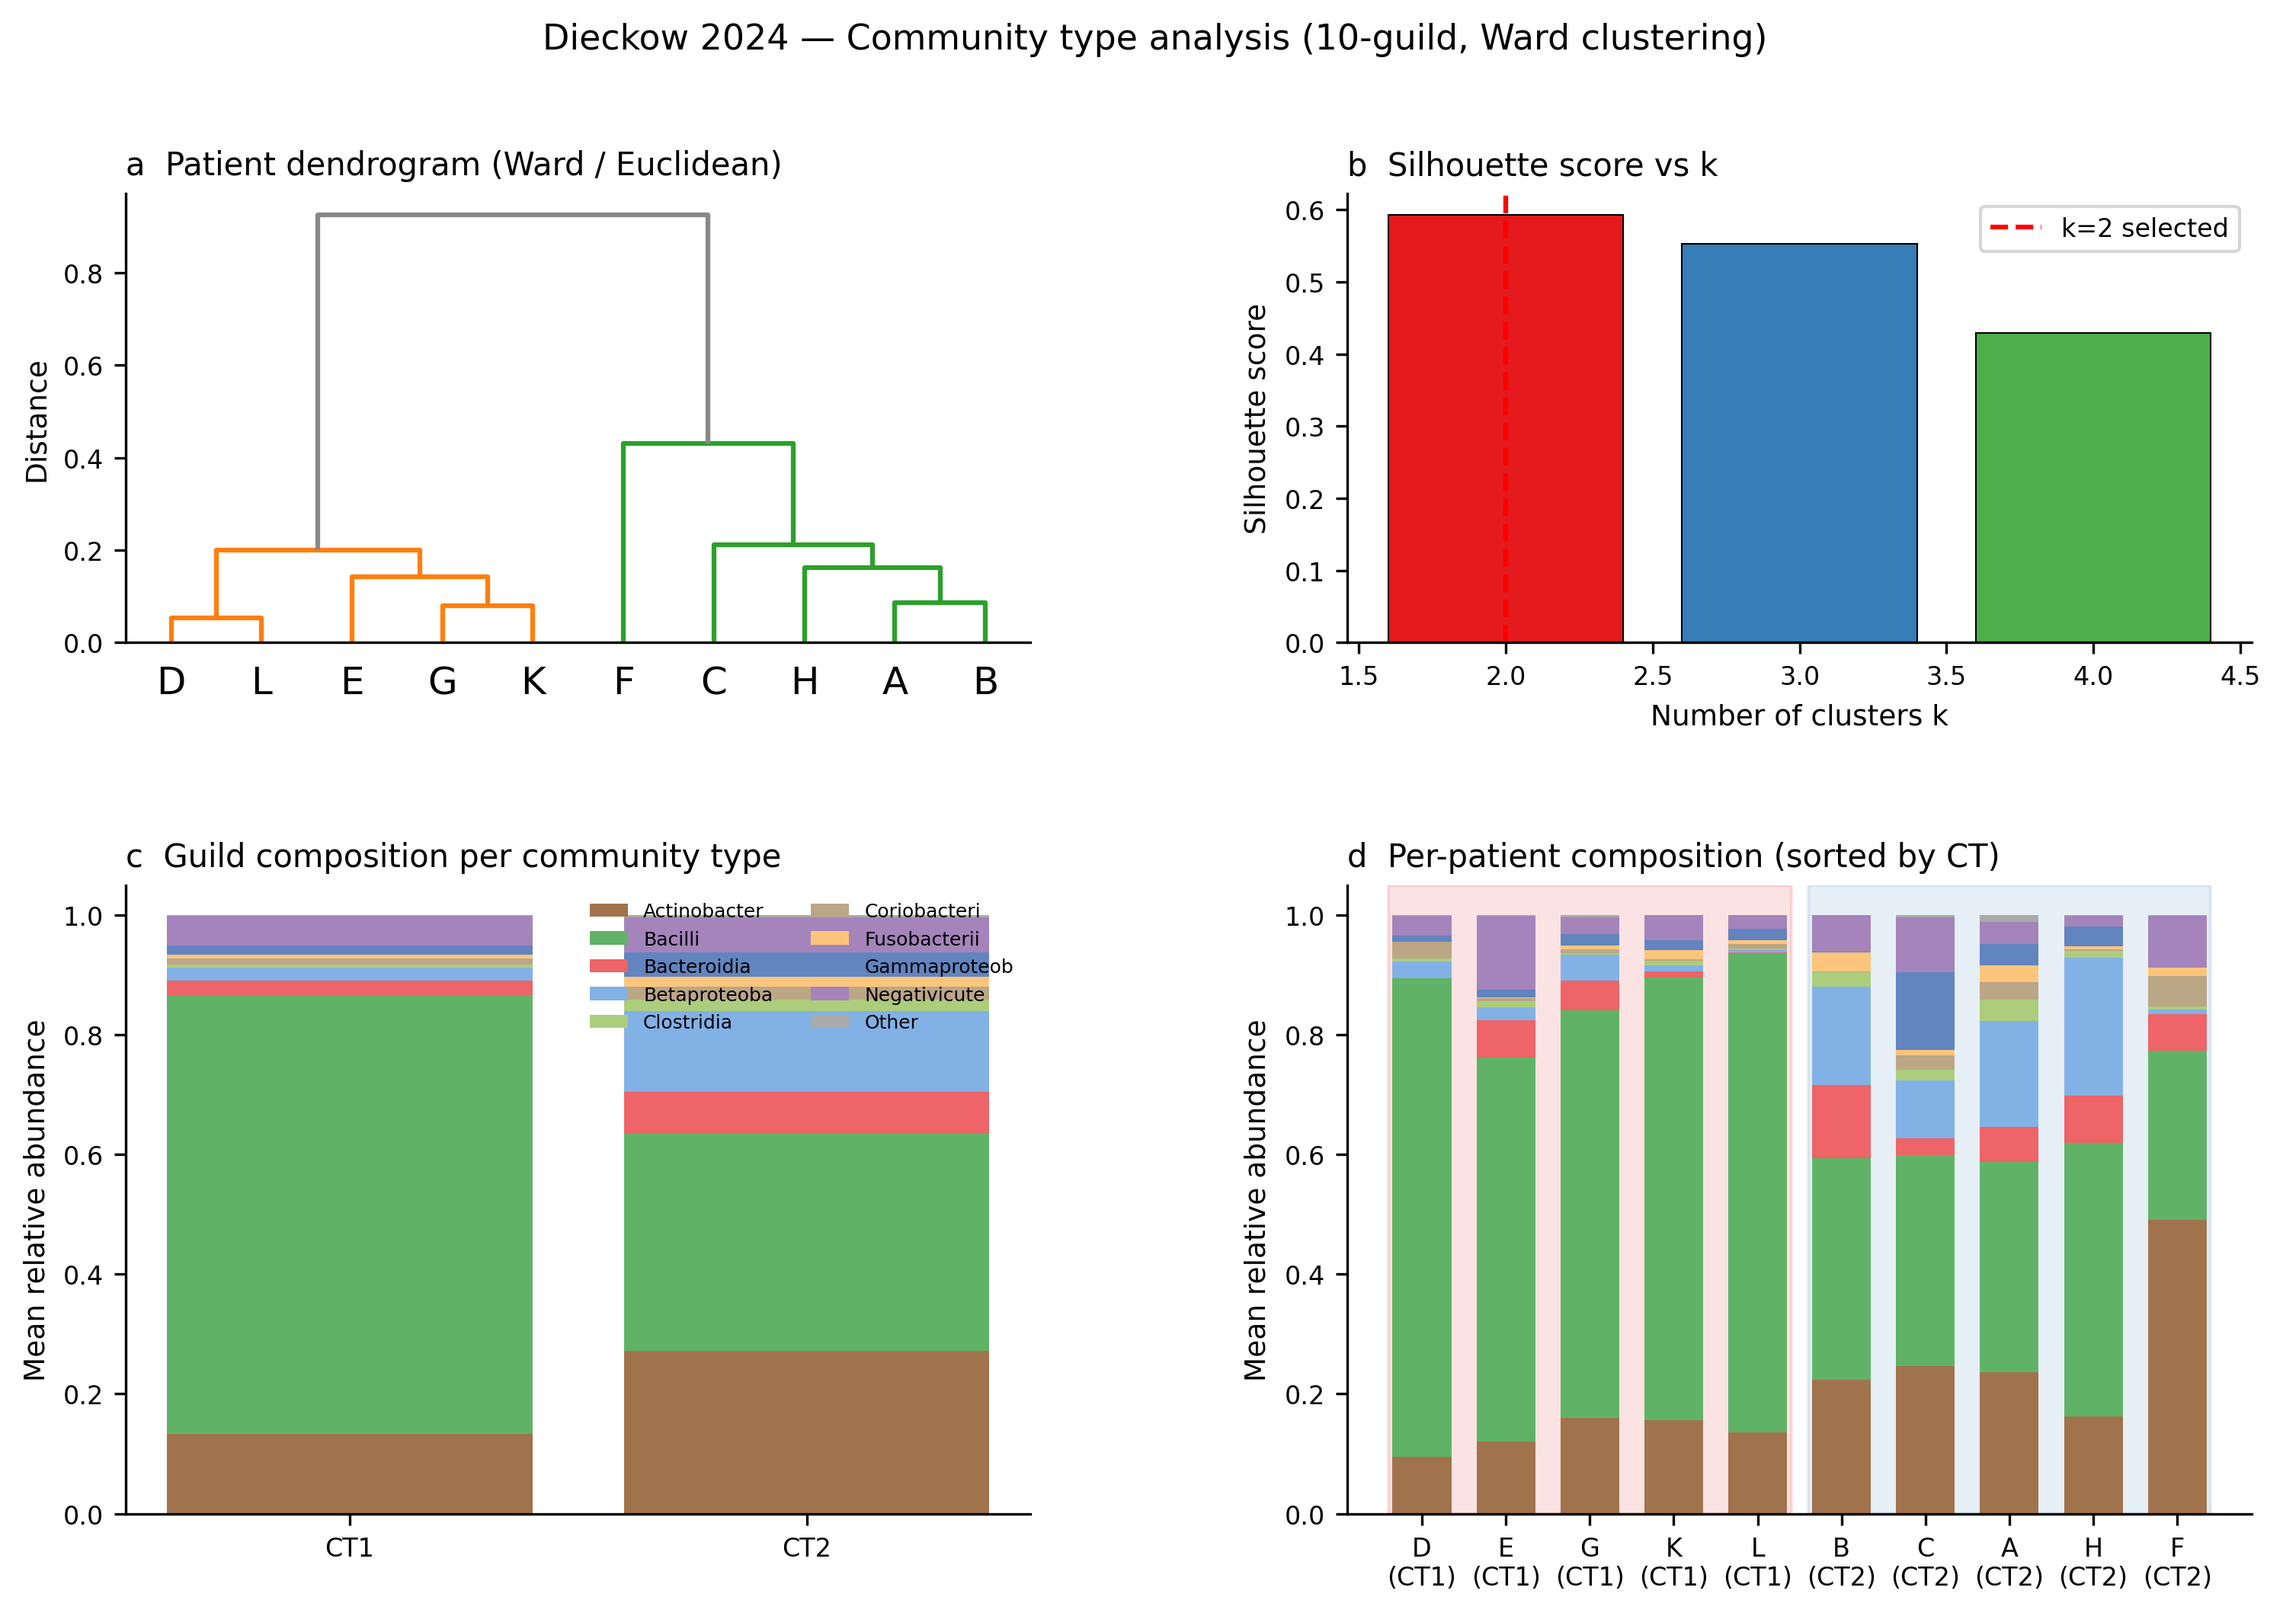
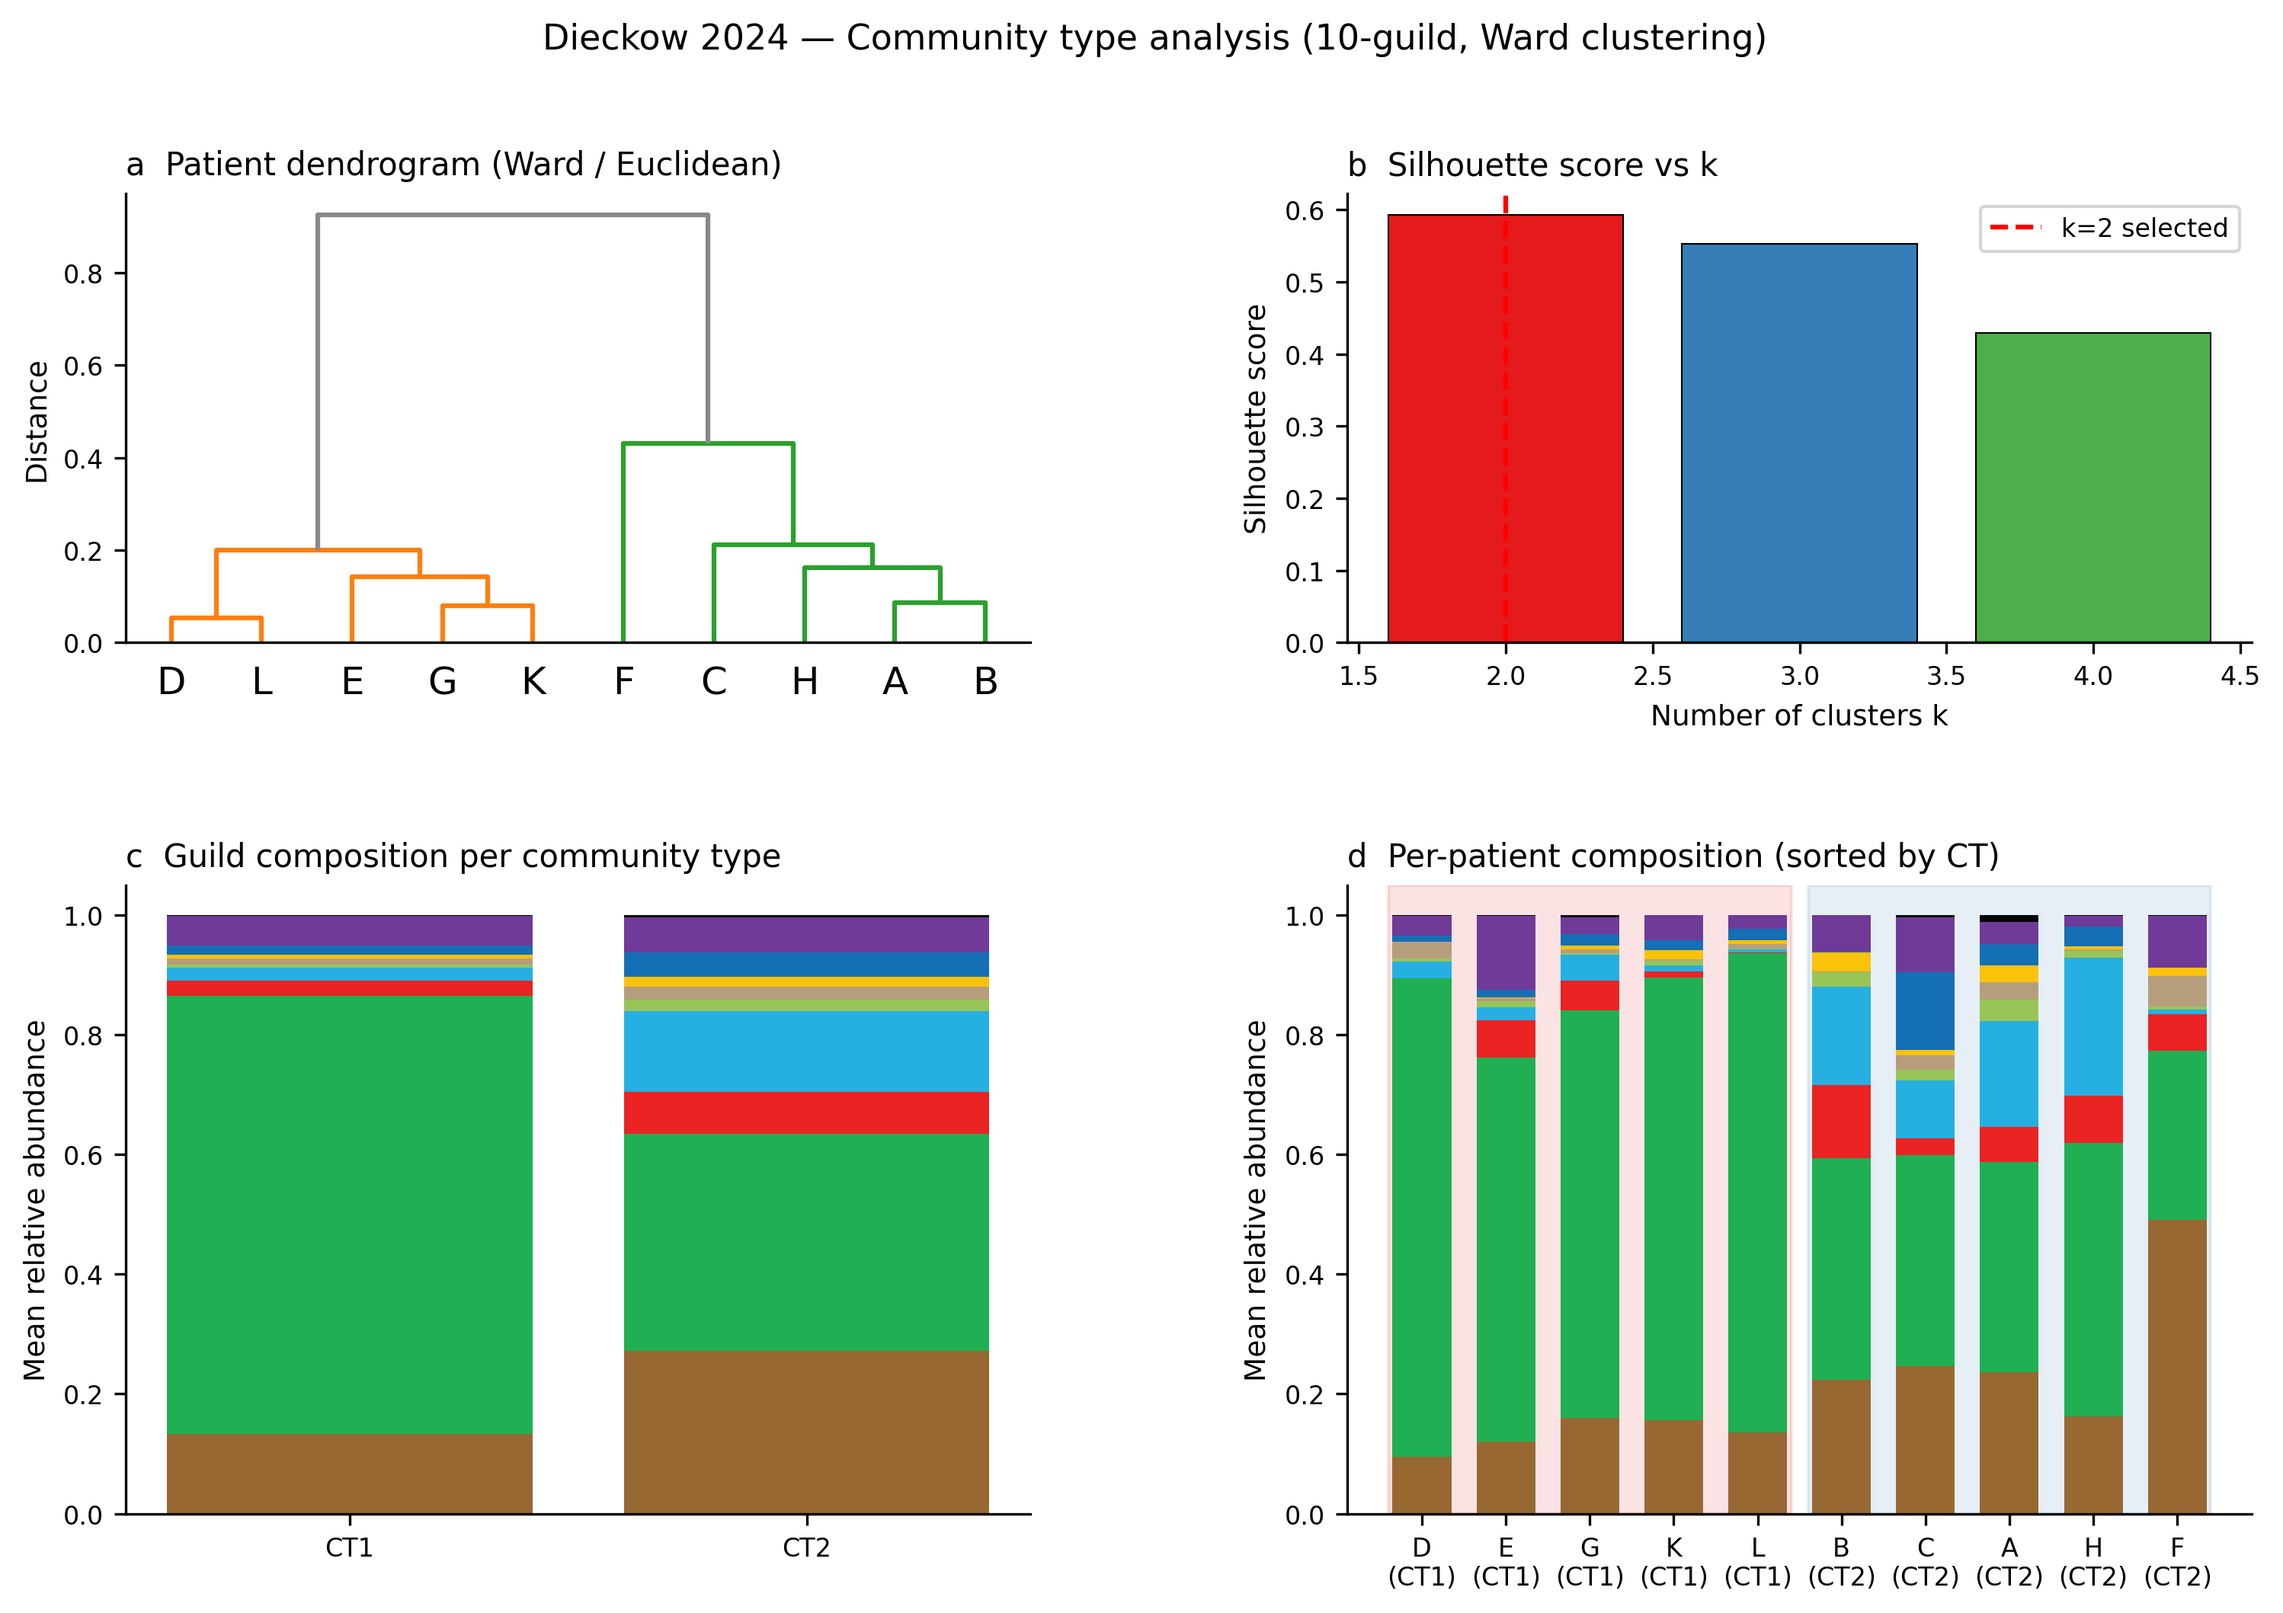
fix: community_type_analysis.py — import cleanup, dynamic guild loading

Changed region(s): [[0.5898, 0.5612, 0.9933, 0.9353], [0.0621, 0.5612, 0.4346, 0.9353]]

diff --git a/community_type_analysis.py b/community_type_analysis.py
@@ -30,16 +30,14 @@ from sklearn.metrics import silhouette_score
 from pathlib import Path
 import sys
 sys.path.insert(0, str(Path(__file__).parent))
-from guild_replicator_dieckow import GUILD_ORDER, N_G, GUILD_COLORS_LIST, GUILD_SHORT_LIST
+from guild_replicator_dieckow import GUILD_ORDER, GUILD_COLORS
 
 PHI_NPY = Path(__file__).parent / 'results' / 'dieckow_otu' / 'phi_guild.npy'
 OUT_DIR = Path(__file__).parent / 'results' / 'dieckow_otu'
+GUILD_SUMMARY_JSON = OUT_DIR / 'guild_summary.json'
 
 PATIENTS = list('ABCDEFGHKL')
-SHORT    = GUILD_SHORT_LIST
 CT_COLORS = ['#e41a1c', '#377eb8', '#4daf4a', '#984ea3']
-
-GUILD_COLORS = GUILD_COLORS_LIST
 
 
 def best_k(X, Z, k_range=(2, 4)):
@@ -57,6 +55,21 @@ def main():
     phi = np.load(PHI_NPY)
     # Feature: mean across weeks → (10, N)
     X = phi.mean(axis=1)
+    n_g = int(X.shape[1])
+
+    guilds = None
+    if GUILD_SUMMARY_JSON.exists():
+        try:
+            d = json.loads(GUILD_SUMMARY_JSON.read_text())
+            if isinstance(d, dict) and isinstance(d.get('guilds'), list):
+                if len(d['guilds']) == n_g:
+                    guilds = [str(g) for g in d['guilds']]
+        except Exception:
+            guilds = None
+    if guilds is None:
+        guilds = list(GUILD_ORDER)[:n_g]
+
+    guild_colors = [GUILD_COLORS.get(g, '#808080') for g in guilds]
 
     # Hierarchical clustering (Ward, Bray-Curtis-like = Euclidean on compositions)
     dist = pdist(X, metric='euclidean')
@@ -106,14 +119,12 @@ def main():
     ct_means = np.array(ct_means)
 
     bottom = np.zeros(len(ct_ids))
-    for g, (col, name) in enumerate(zip(GUILD_COLORS, GUILD_ORDER)):
-        ax_ct.bar([f'CT{ct}' for ct in ct_ids], ct_means[:, g],
-                  bottom=bottom, color=col, label=name[:12])
+    for g, (col, name) in enumerate(zip(guild_colors, guilds)):
+        ax_ct.bar([f'CT{ct}' for ct in ct_ids], ct_means[:, g], bottom=bottom, color=col)
         bottom += ct_means[:, g]
     ax_ct.set_ylim(0, 1.05)
     ax_ct.set_ylabel('Mean relative abundance')
     ax_ct.set_title('c  Guild composition per community type', fontsize=10, loc='left')
-    ax_ct.legend(loc='upper right', fontsize=6, ncol=2, frameon=False)
     ax_ct.spines['top'].set_visible(False)
     ax_ct.spines['right'].set_visible(False)
 
@@ -125,7 +136,7 @@ def main():
     sorted_X        = X[order]
 
     bottom = np.zeros(len(PATIENTS))
-    for g, (col, name) in enumerate(zip(GUILD_COLORS, GUILD_ORDER)):
+    for g, col in enumerate(guild_colors):
         ax_pat.bar(range(len(PATIENTS)), sorted_X[:, g],
                    bottom=bottom, color=col, width=0.7)
         bottom += sorted_X[:, g]
@@ -151,7 +162,7 @@ def main():
     ax_pat.spines['top'].set_visible(False)
     ax_pat.spines['right'].set_visible(False)
 
-    fig.suptitle('Dieckow 2024 — Community type analysis (10-guild, Ward clustering)',
+    fig.suptitle(f'Dieckow 2024 — Community type analysis ({n_g}-guild, Ward clustering)',
                  fontsize=11)
 
     for ext in ('pdf', 'png'):
@@ -168,8 +179,7 @@ def main():
             'silhouette_scores': {str(k): float(v) for k, v in sil_scores.items()},
             'patient_ct': {p: int(ct) for p, ct in zip(PATIENTS, labels)},
             'ct_mean_composition': {
-                f'CT{ct}': {g: float(ct_means[i, j])
-                             for j, g in enumerate(GUILD_ORDER)}
+                f'CT{ct}': {g: float(ct_means[i, j]) for j, g in enumerate(guilds)}
                 for i, ct in enumerate(ct_ids)
             },
         }, f, indent=2)
